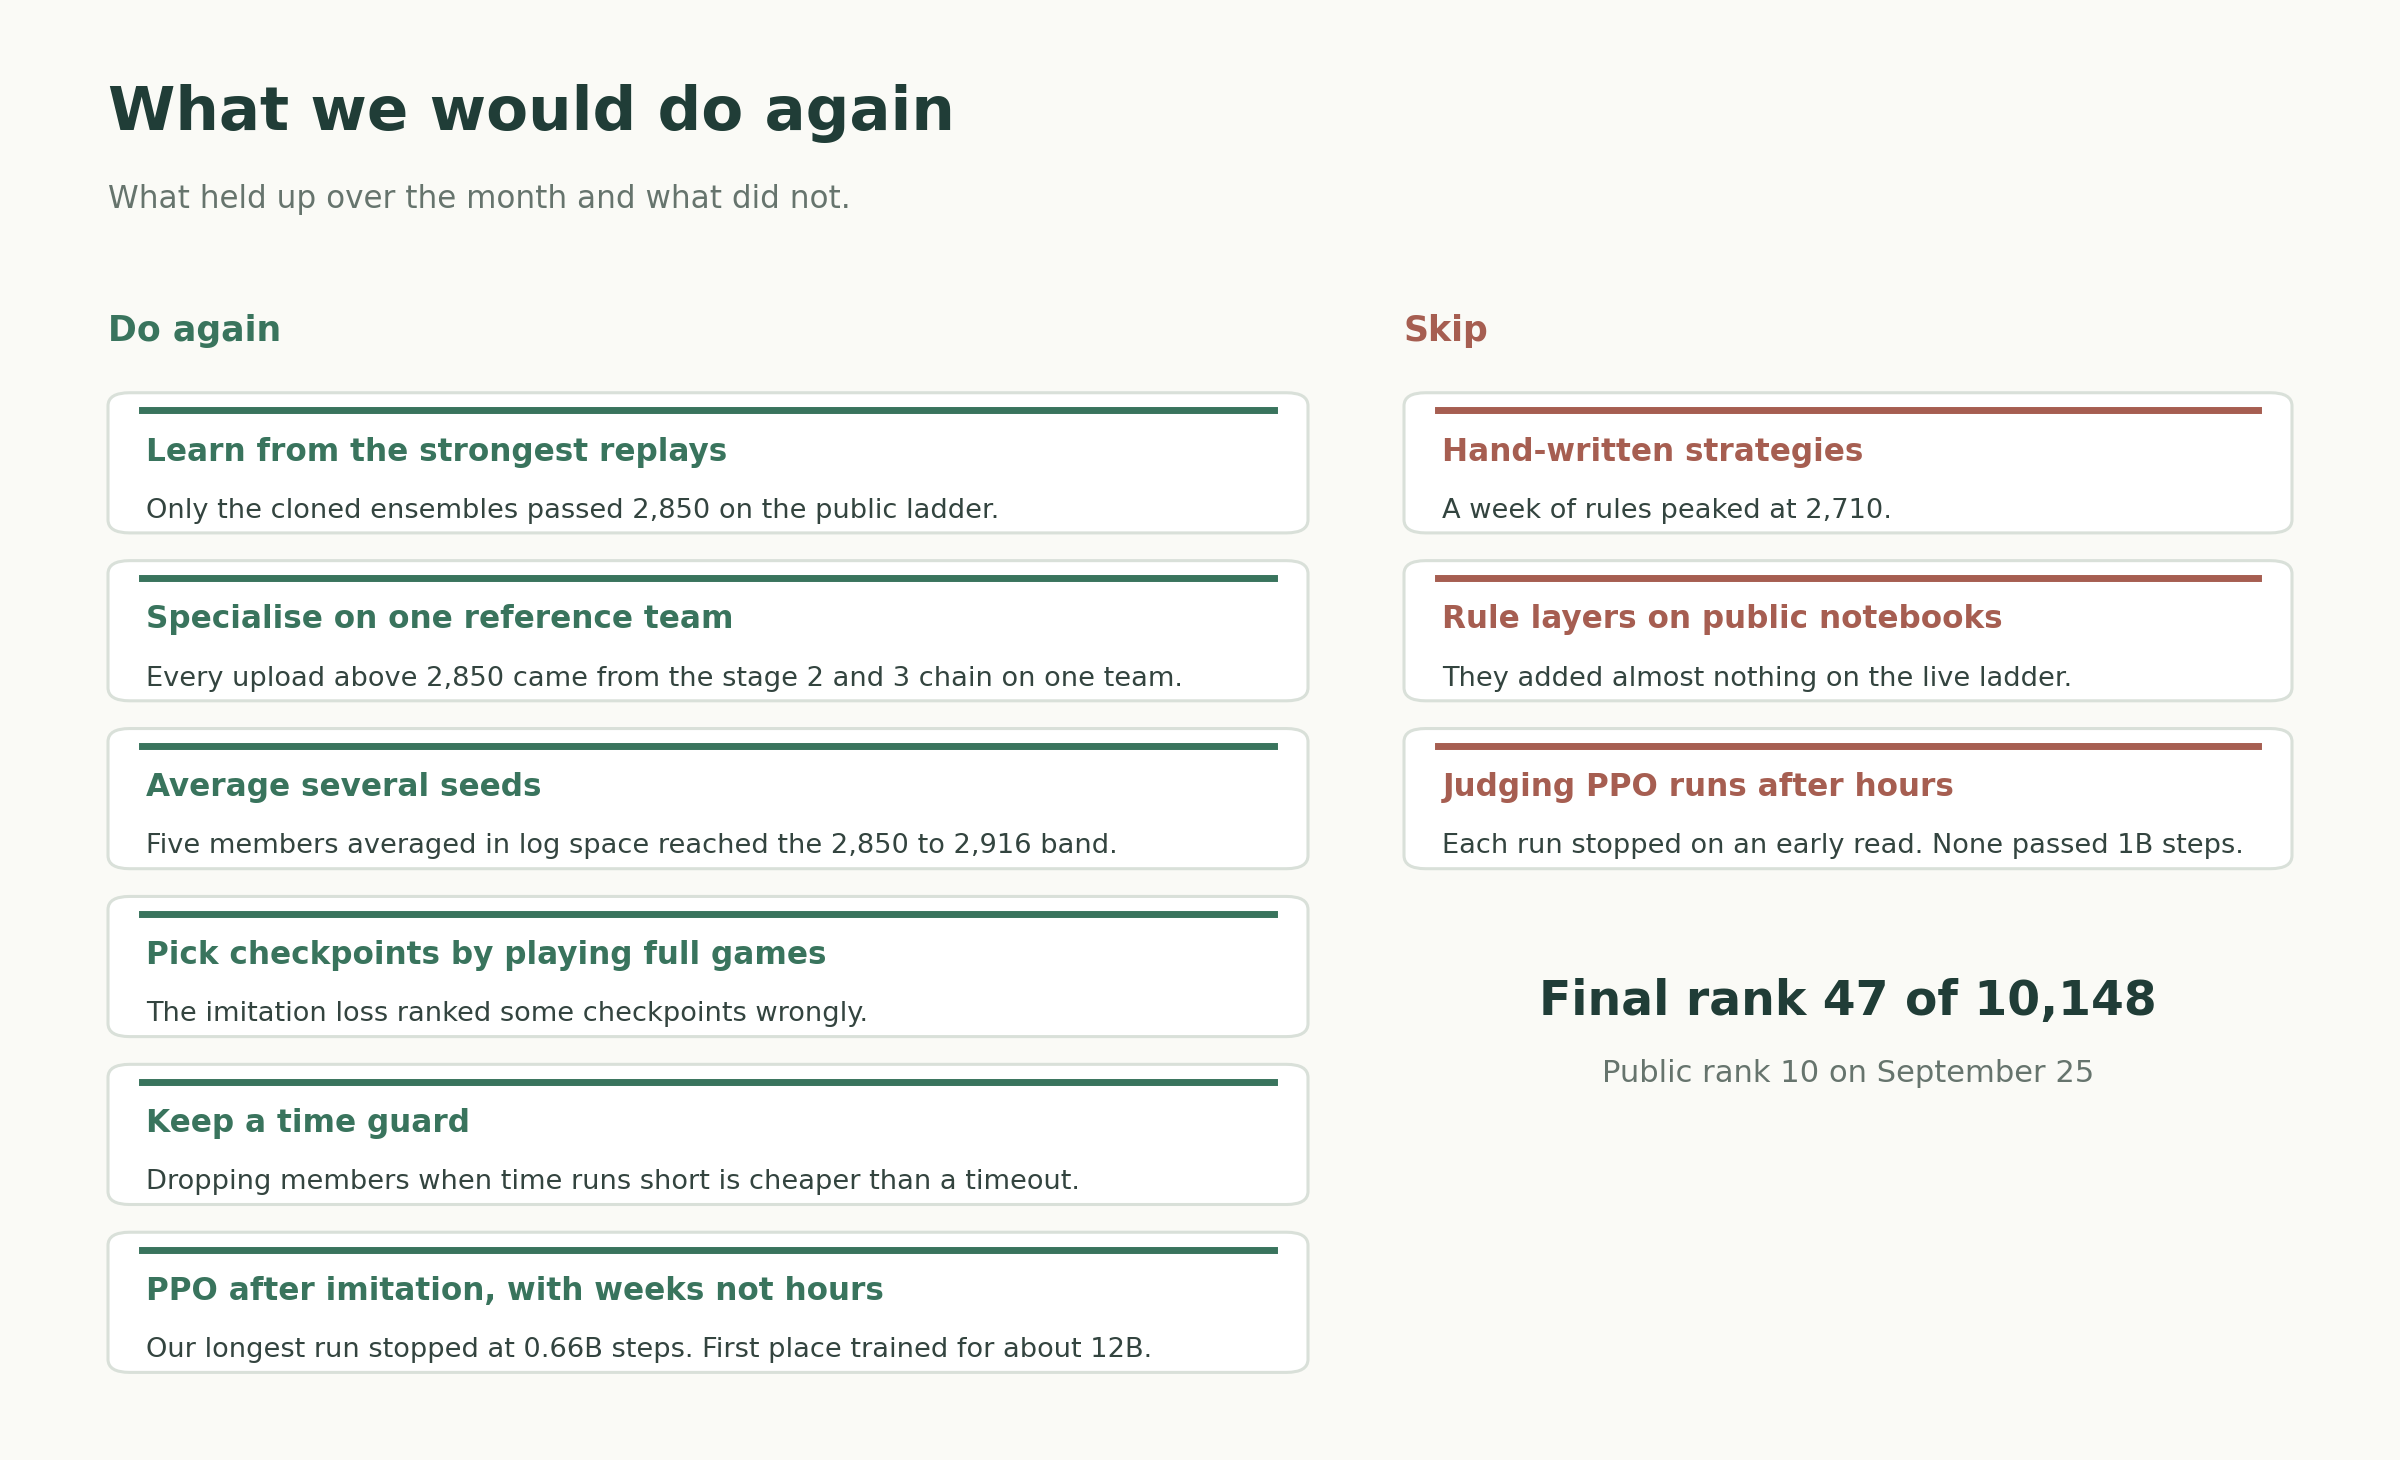
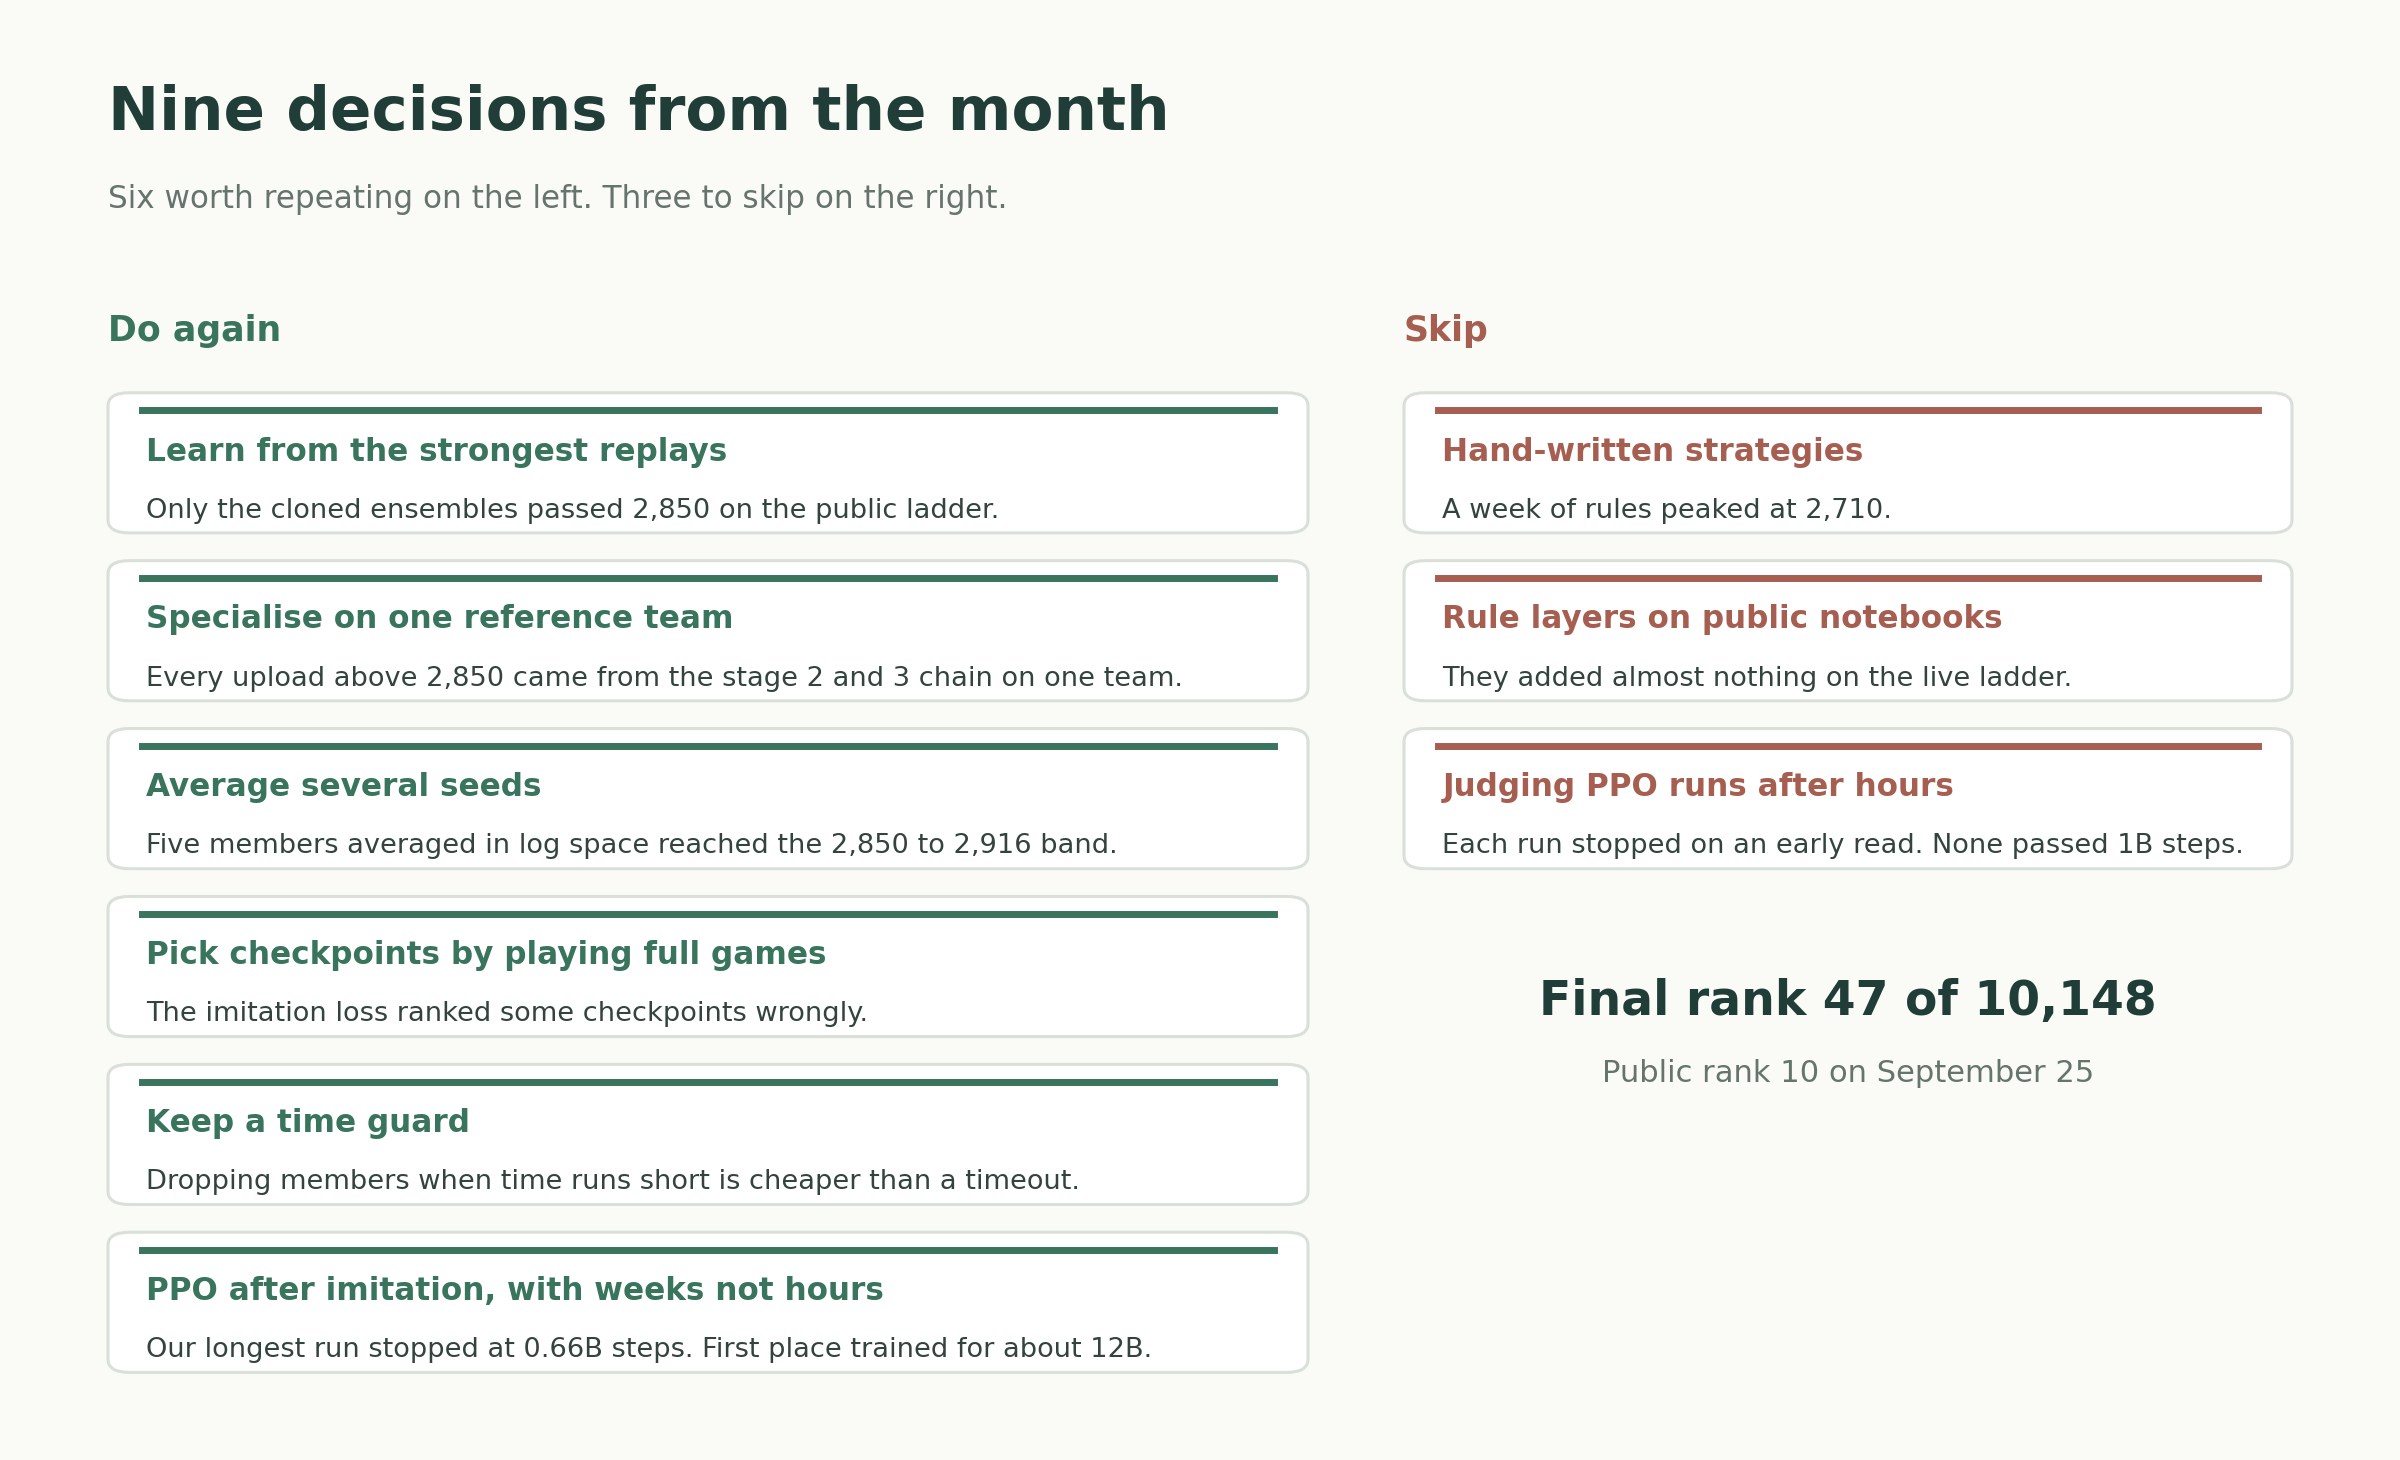
Link the competition write-up and update the closing figure

Changed region(s): [[0.0312, 0.0616, 0.5, 0.0925], [0.0312, 0.1233, 0.4062, 0.1541]]

diff --git a/README.md b/README.md
@@ -1,6 +1,6 @@
 # Kaggriculture: a farming agent cloned from public replays
 
-Team Smackaveli · 47th of 10,148 on the final leaderboard · [Write-up](https://www.kaggle.com/competitions/kaggriculture/discussion) · [Final agents](https://www.kaggle.com/datasets/spoutop/kaggriculture-smackaveli-final-agents)
+Team Smackaveli · 47th of 10,148 on the final leaderboard · [Write-up](https://www.kaggle.com/competitions/kaggriculture/writeups/47th-place-teaching-a-farming-agent-from-replays) · [Final agents](https://www.kaggle.com/datasets/spoutop/kaggriculture-smackaveli-final-agents)
 
 Training and evaluation code for our Kaggriculture agent. The policy is an 11.79M-parameter convolutional network trained by behaviour cloning on public replays. Five such networks play as a log-probability ensemble through a numpy-only decoder on Kaggle's CPU workers. The weights of our two final submissions are on Kaggle. See Final agents.
 
